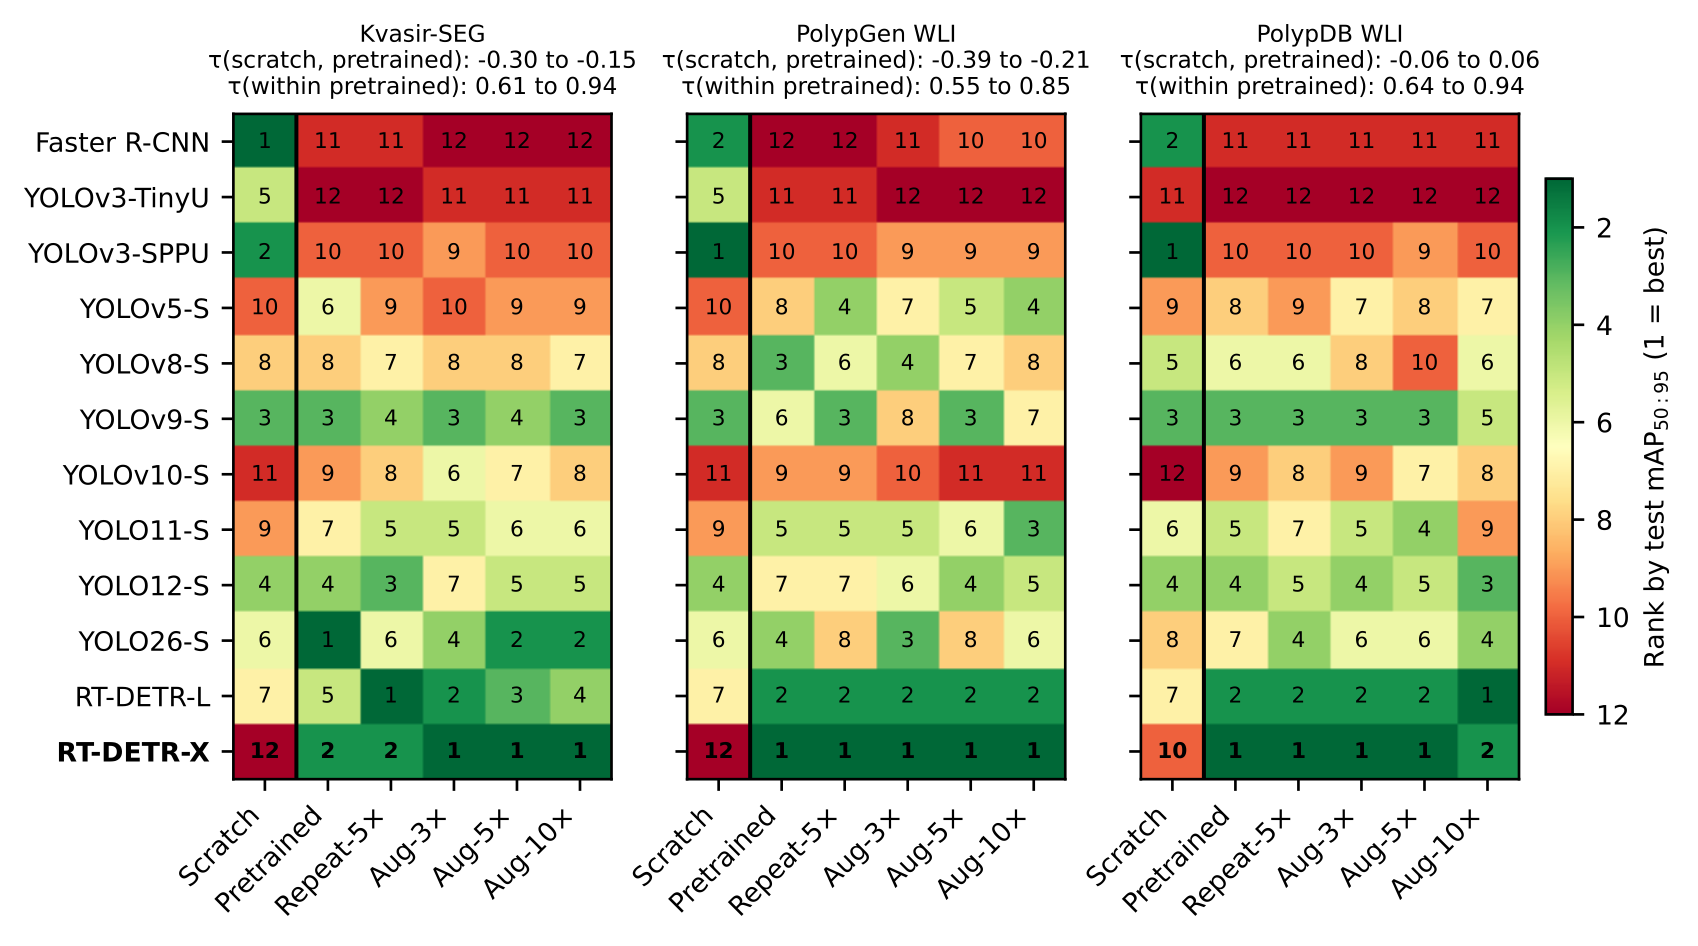
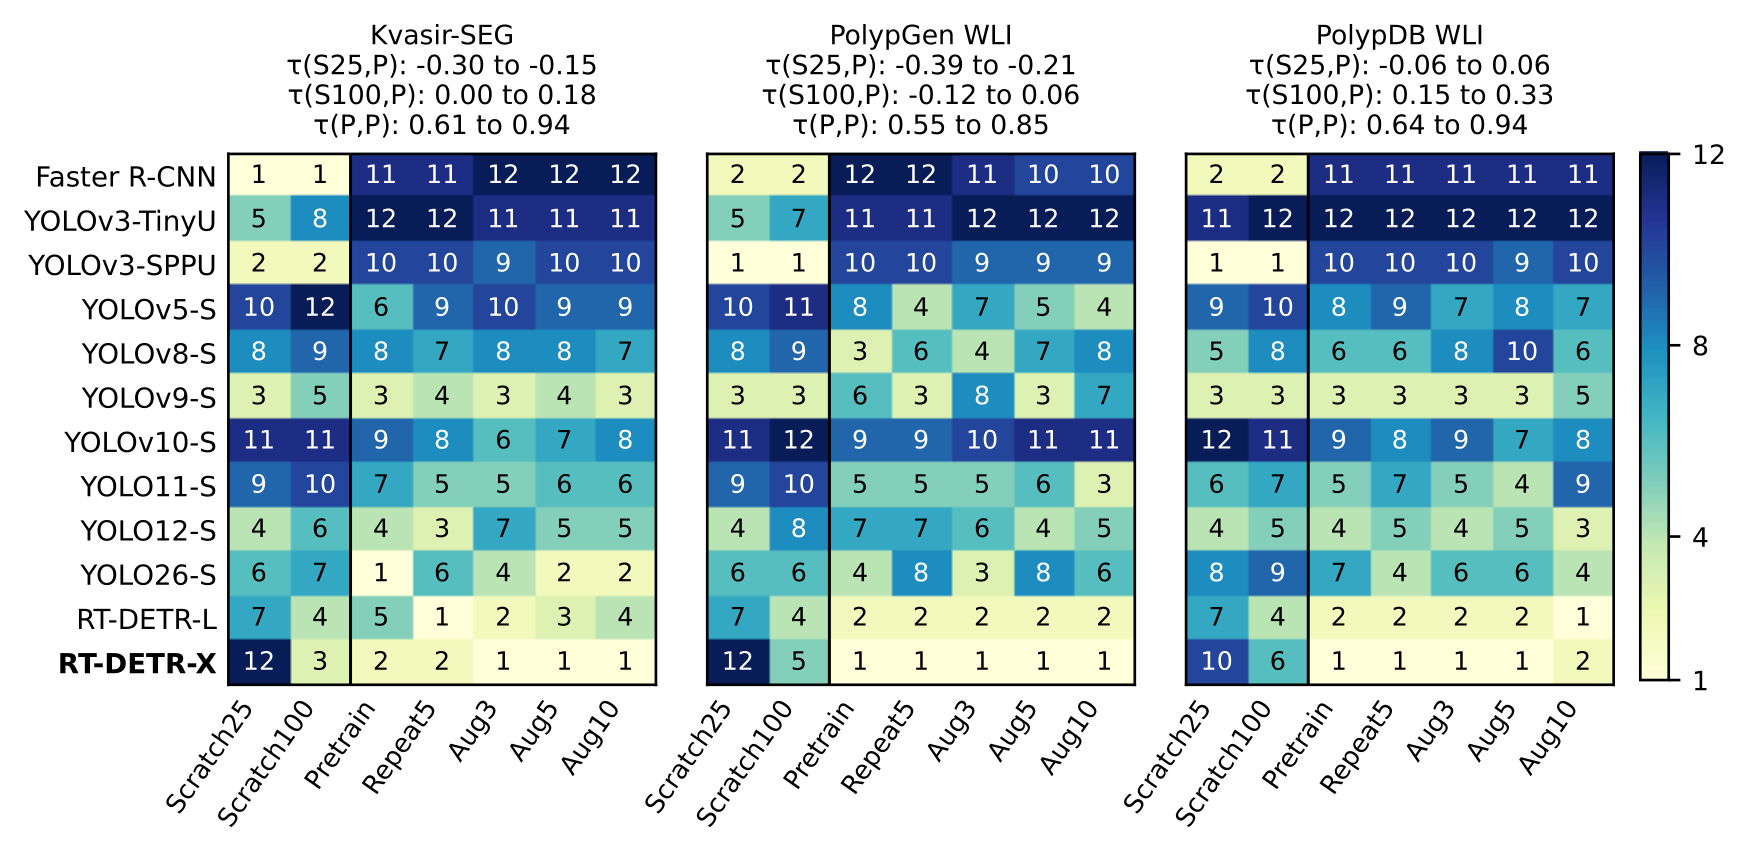
Report Scratch-25 and Scratch-100 as separate regimes
Add the 100-epoch scratch results, convergence figure and scratch_100ep download option so the README matches the paper and the Hub release.

diff --git a/tools/download.py b/tools/download.py
@@ -11,7 +11,7 @@ from huggingface_hub import snapshot_download
 ROOT = Path(__file__).resolve().parents[1]
 DATA_REPO = "AI-for-Medicine-and-Health/polyp-regime-bench-data"
 MODEL_REPO = "AI-for-Medicine-and-Health/polyp-regime-bench-models"
-CONDITIONS = ("scratch_base", "pretrained_base", "pretrained_aug3x", "pretrained_aug5x", "pretrained_aug10x", "pretrained_repeat5x")
+CONDITIONS = ("scratch_base", "scratch_100ep", "pretrained_base", "pretrained_aug3x", "pretrained_aug5x", "pretrained_aug10x", "pretrained_repeat5x")
 DATASETS = ("kvasir_seg", "polypgen_wli", "polypdb_wli")
 MODELS = ("fasterrcnn_resnet50_fpn", "yolo11_s", "yolov5_s", "yolov8_s", "yolov9_s", "yolov3_tinyu", "yolov3_sppu", "yolov10_s", "yolo12_s", "yolo26_s", "rtdetr_l", "rtdetr_x")
 

diff --git a/README.md b/README.md
@@ -1,7 +1,7 @@
 # PolypRegimeBench
 
 **Does the "best" polyp detector stay the best if you train it differently?**
-A controlled benchmark of 12 object detectors × 3 white-light colonoscopy datasets × 6 training regimes × 3 seeds = **648 trained models**, all released.
+A controlled benchmark of 12 object detectors × 3 white-light colonoscopy datasets × 7 training regimes × 3 seeds, with all **756 checkpoints** released.
 
 [📄 Paper (under review)](#citation) · [🤗 Checkpoints & predictions](https://huggingface.co/AI-for-Medicine-and-Health/polyp-regime-bench-models) · [🤗 Split & augmentation manifests](https://huggingface.co/datasets/AI-for-Medicine-and-Health/polyp-regime-bench-data)
 
@@ -9,14 +9,15 @@ A controlled benchmark of 12 object detectors × 3 white-light colonoscopy datas
 
 ---
 
-## TL;DR — four findings
+## TL;DR — five findings
 
 | # | Finding | Evidence |
 |---|---|---|
-| 1 | **Initialization flips the leaderboard.** | RT-DETR-X ranks **12th / 12th / 10th** when trained from scratch, but **1st or 2nd in all 15** pretrained settings. Kendall's τ between scratch and pretrained rankings is −0.39 to 0.06 (unrelated or reversed). |
-| 2 | **Augmentation helps through new views, not extra training.** | Repeating each image 5× (same number of steps as Aug-5×) gives **no gain**; Aug-5× adds **+0.024 / +0.054 / +0.042** mAP50:95 over that control. |
-| 3 | **Ensemble gains depend on how well the members are trained.** | Tuned Top-6 WBF beats the best single detector in **13 of 15** pretrained settings and fails only with the shortest training. Hard voting mostly buys precision (+0.10–0.13) rather than AP. |
-| 4 | **Accuracy costs speed.** | RT-DETR-X: **35.6 ms (28 FPS)**. Top-6 ensembles: **~140 ms (~7 FPS)**, i.e. not real-time when run serially. |
+| 1 | **Initialization and training budget reshape the leaderboard.** | RT-DETR-X ranks **12th / 12th / 10th** after 25 scratch epochs, **3rd / 5th / 6th** after 100, and **1st or 2nd in all 15** pretrained settings. Kendall's τ between scratch and pretrained rankings is −0.39 to 0.06 after 25 epochs and −0.12 to 0.33 after 100 (unrelated to weak). |
+| 2 | **A longer scratch schedule does not replace pretraining.** | With 100 scratch epochs the 12-detector mean mAP50:95 is only **0.11–0.41**, versus **0.53–0.70** with COCO-pretrained weights trained for 25 epochs. |
+| 3 | **Augmentation helps through new views, not extra training.** | Repeating each image 5× (same number of steps as Aug-5×) gives **no gain**; Aug-5× adds **+0.024 / +0.054 / +0.042** mAP50:95 over that control. |
+| 4 | **Ensemble gains depend on how well the members are trained.** | Tuned Top-6 WBF beats the best single detector in **13 of 15** pretrained settings, but with scratch-trained members in only one of three datasets under either budget. Hard voting mostly buys precision (+0.10–0.13) rather than AP. |
+| 5 | **Accuracy costs speed.** | RT-DETR-X: **35.6 ms (28 FPS)**. Top-6 ensembles: **~140 ms (~7 FPS)**, i.e. not real-time when run serially. |
 
 **Practical takeaway:** use pretrained weights first; tune augmentation scale per architecture; use WBF when accuracy matters more than speed; and **always report the training regime** when comparing detectors.
 
@@ -26,7 +27,7 @@ A controlled benchmark of 12 object detectors × 3 white-light colonoscopy datas
 
 ![Study design](assets/study_design.png)
 
-Everything that can be held fixed is held fixed: the split (seed 42), image modality (white-light only), evaluation code, input size (640), and training budget (25 epochs). Only the **training regime** and the **inference-time fusion** vary.
+Everything that can be held fixed is held fixed: the split (seed 42), image modality (white-light only), evaluation code and input size (640). Pretrained regimes train for 25 epochs; scratch models train for 100 epochs and are evaluated at the best validation checkpoint within 25 and within 100 epochs. Only the **training regime** and the **inference-time fusion** vary.
 
 <table>
 <tr><td valign="top">
@@ -45,8 +46,8 @@ Everything that can be held fixed is held fixed: the split (seed 42), image moda
 
 | Regime | What changes |
 |---|---|
-| Scratch | random initialization |
-| Pretrained | public pretrained weights, original images |
+| Scratch-25 / Scratch-100 | random initialization; best validation checkpoint within 25 / 100 epochs |
+| Pretrained | COCO-pretrained weights, original images, 25 epochs |
 | Aug-3× / 5× / 10× | + offline augmented copies (nested sets) |
 | Repeat-5× | each original image ×5 — **control**: same steps as Aug-5×, no new views |
 
@@ -69,13 +70,17 @@ All selections are frozen on validation data before touching the test set.
 
 ![Performance across training regimes](assets/regime_overview.png)
 
-Pretraining lifts the 12-detector mean mAP50:95 from **0.122 → 0.639** (Kvasir-SEG), **0.075 → 0.529** (PolypGen) and **0.379 → 0.698** (PolypDB). It also narrows the gap between the best and worst architecture from 0.22–0.39 to 0.10–0.19.
+Pretraining lifts the 12-detector mean mAP50:95 from **0.122 → 0.639** (Kvasir-SEG), **0.075 → 0.529** (PolypGen) and **0.379 → 0.698** (PolypDB) relative to Scratch-25. Quadrupling the scratch budget closes little of this gap: Scratch-100 reaches only **0.170 / 0.106 / 0.406**. Pretraining also narrows the gap between the best and worst architecture from 0.22–0.41 to 0.10–0.19.
 
-### 2. Rankings under scratch training say little about rankings after pretraining
+![Validation mAP during training](assets/training_convergence.png)
+
+Why 25 epochs for pretrained models but 100 for scratch? Pretrained regimes reach their best validation mAP early (median best epoch 3–12) and then plateau, whereas scratch models are still improving at epoch 25 and level off only after about 50 epochs (median best epoch 55).
+
+### 2. Rankings depend on both initialization and training budget
 
 ![Rank of each detector under each regime](assets/rank_by_regime.png)
 
-Each cell is a detector's rank (1 = best test mAP50:95). Left of the vertical line is scratch training; the five pretrained regimes are on the right. Once pretrained, rankings are stable (τ = 0.55–0.94). Scratch rankings are unrelated or reversed. A benchmark trained with a single recipe therefore answers a narrower question than its leaderboard suggests.
+Each cell is a detector's rank (1 = best test mAP50:95). Left of the vertical line are the two scratch budgets; the five pretrained regimes are on the right. Once pretrained, rankings are stable (τ = 0.55–0.94). Scratch rankings are unrelated or only weakly related to them, and even the two scratch budgets disagree with each other (τ = 0.55–0.73). A benchmark trained with a single recipe therefore answers a narrower question than its leaderboard suggests.
 
 ### 3. Augmentation: it's the new views, not the extra steps
 
@@ -143,7 +148,7 @@ Per-lesion miss rate of RT-DETR-X (Aug-10×), by quartile of lesion property. **
 
 ![Original Kvasir-SEG frames and detector predictions](assets/kvasir_qualitative.png)
 
-RT-DETR-X (seed 88) on two Kvasir-SEG test frames. Green = reference box, cyan = matched detection, pink = unmatched detection (score > 0.20, IoU ≥ 0.50). From scratch the model fires boxes everywhere; once pretrained it localizes both lesions. These examples are illustrative and were chosen to show the regime effect, not typical accuracy.
+RT-DETR-X (seed 88) on two Kvasir-SEG test frames. Green = reference box, cyan = matched detection, pink = unmatched detection (score > 0.20, IoU ≥ 0.50). After 25 scratch epochs the model fires boxes everywhere; once pretrained it localizes both lesions. These examples are illustrative and were chosen to show the regime effect, not typical accuracy.
 
 <sub>Images: [Kvasir-SEG, Simula Research Laboratory](https://datasets.simula.no/kvasir-seg/) (Jha et al., MMM 2020), test IDs `19fbdf4d-bf29-4a07-831c-3742f7495e57` and `b0cad6a8-03a0-43cd-bf8e-86eeed830d4b`. Research and education use only; citation required; commercial use needs the publisher's written permission. No other dataset images are redistributed here.</sub>
 
@@ -154,10 +159,10 @@ RT-DETR-X (seed 88) on two Kvasir-SEG test frames. Green = reference box, cyan =
 | Where | What |
 |---|---|
 | **This repo** | Split/augmentation tooling, training entry points, inference, evaluation, ensemble (hard vote / WBF) and paper analysis scripts |
-| [🤗 `polyp-regime-bench-models`](https://huggingface.co/AI-for-Medicine-and-Health/polyp-regime-bench-models) | All **648** `best.pt` checkpoints (12 detectors × 3 datasets × 3 seeds × 6 regimes), cached per-image predictions, ensemble outputs, SHA-256 index with test metrics |
+| [🤗 `polyp-regime-bench-models`](https://huggingface.co/AI-for-Medicine-and-Health/polyp-regime-bench-models) | All **756** `best.pt` checkpoints (12 detectors × 3 datasets × 3 seeds × 7 regimes), cached per-image predictions, ensemble outputs, SHA-256 index with test metrics |
 | [🤗 `polyp-regime-bench-data`](https://huggingface.co/datasets/AI-for-Medicine-and-Health/polyp-regime-bench-data) | Exact split and augmentation **manifests**. No third-party images: download those from the original publishers. |
 
-Checkpoints follow the layout `checkpoints/<regime>/seed<88|123|666>/<dataset>/<model>/best.pt`, where `<regime>` is one of `scratch_base`, `pretrained_base`, `pretrained_aug3x`, `pretrained_aug5x`, `pretrained_aug10x`, `pretrained_repeat5x`.
+Checkpoints follow the layout `checkpoints/<regime>/seed<88|123|666>/<dataset>/<model>/best.pt`, where `<regime>` is one of `scratch_base` (Scratch-25), `scratch_100ep` (Scratch-100), `pretrained_base`, `pretrained_aug3x`, `pretrained_aug5x`, `pretrained_aug10x`, `pretrained_repeat5x`.
 
 ## Quick start
 
@@ -221,7 +226,7 @@ assets/                figures used in this README
 ## Limitations
 
 - Three datasets, one split each, three seeds. Split variability is not measured, and image-level splits may put correlated frames in different partitions. Only PolypGen's test set comes from an unseen centre.
-- Fixed 25-epoch budget. Longer schedules could narrow the scratch-vs-pretrained gap, especially for transformers.
+- Pretrained regimes use 25 epochs and scratch training at most 100, with a single fixed learning rate. Scratch-100 therefore compares initializations at unequal compute, and longer or differently scheduled scratch training might narrow the gap further.
 - Some thresholds (AP integration, operating point, vote IoU) were fixed after exploratory analyses that touched the test sets. All ensemble parameters were validation-selected and frozen, but confirmation on an untouched cohort is still needed.
 - Latency was measured on a shared GPU, and ensemble latency is a serial sum.
 - Test sets are almost entirely polyp-positive still images. They say nothing about false alarms over a full procedure or about adenoma detection rate.
